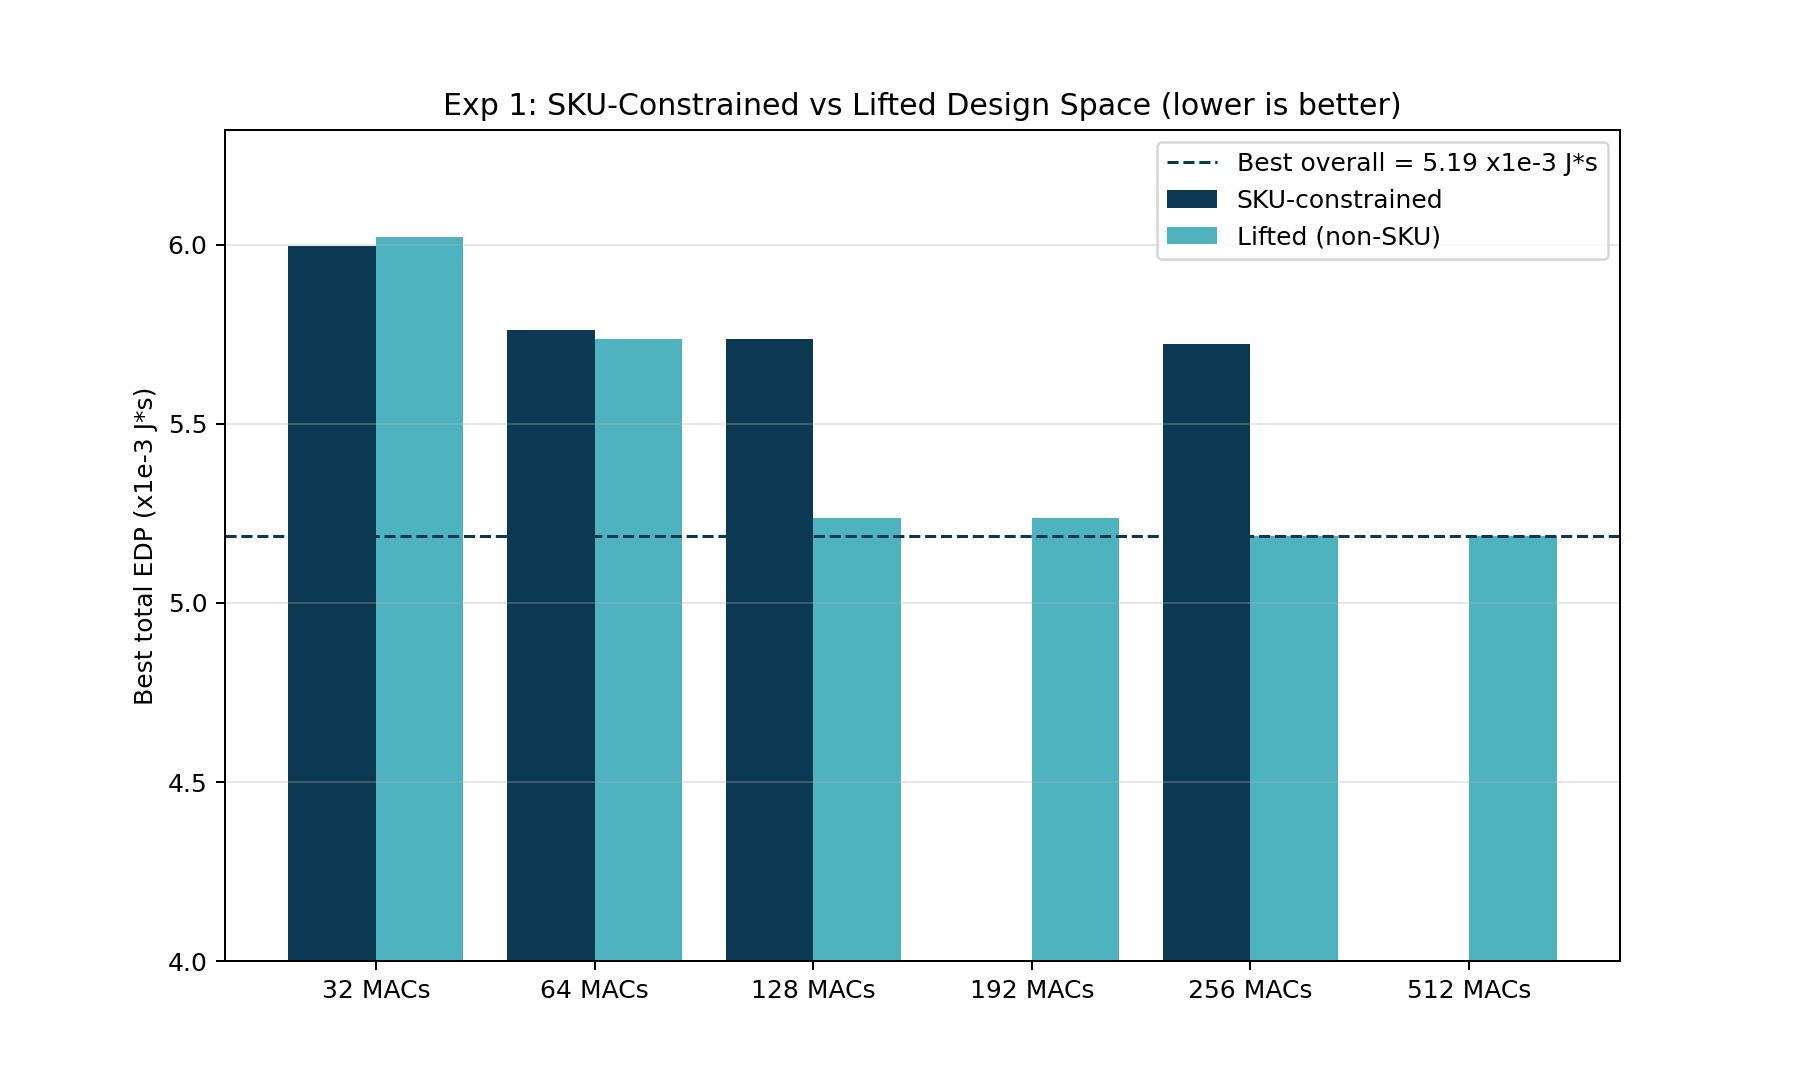
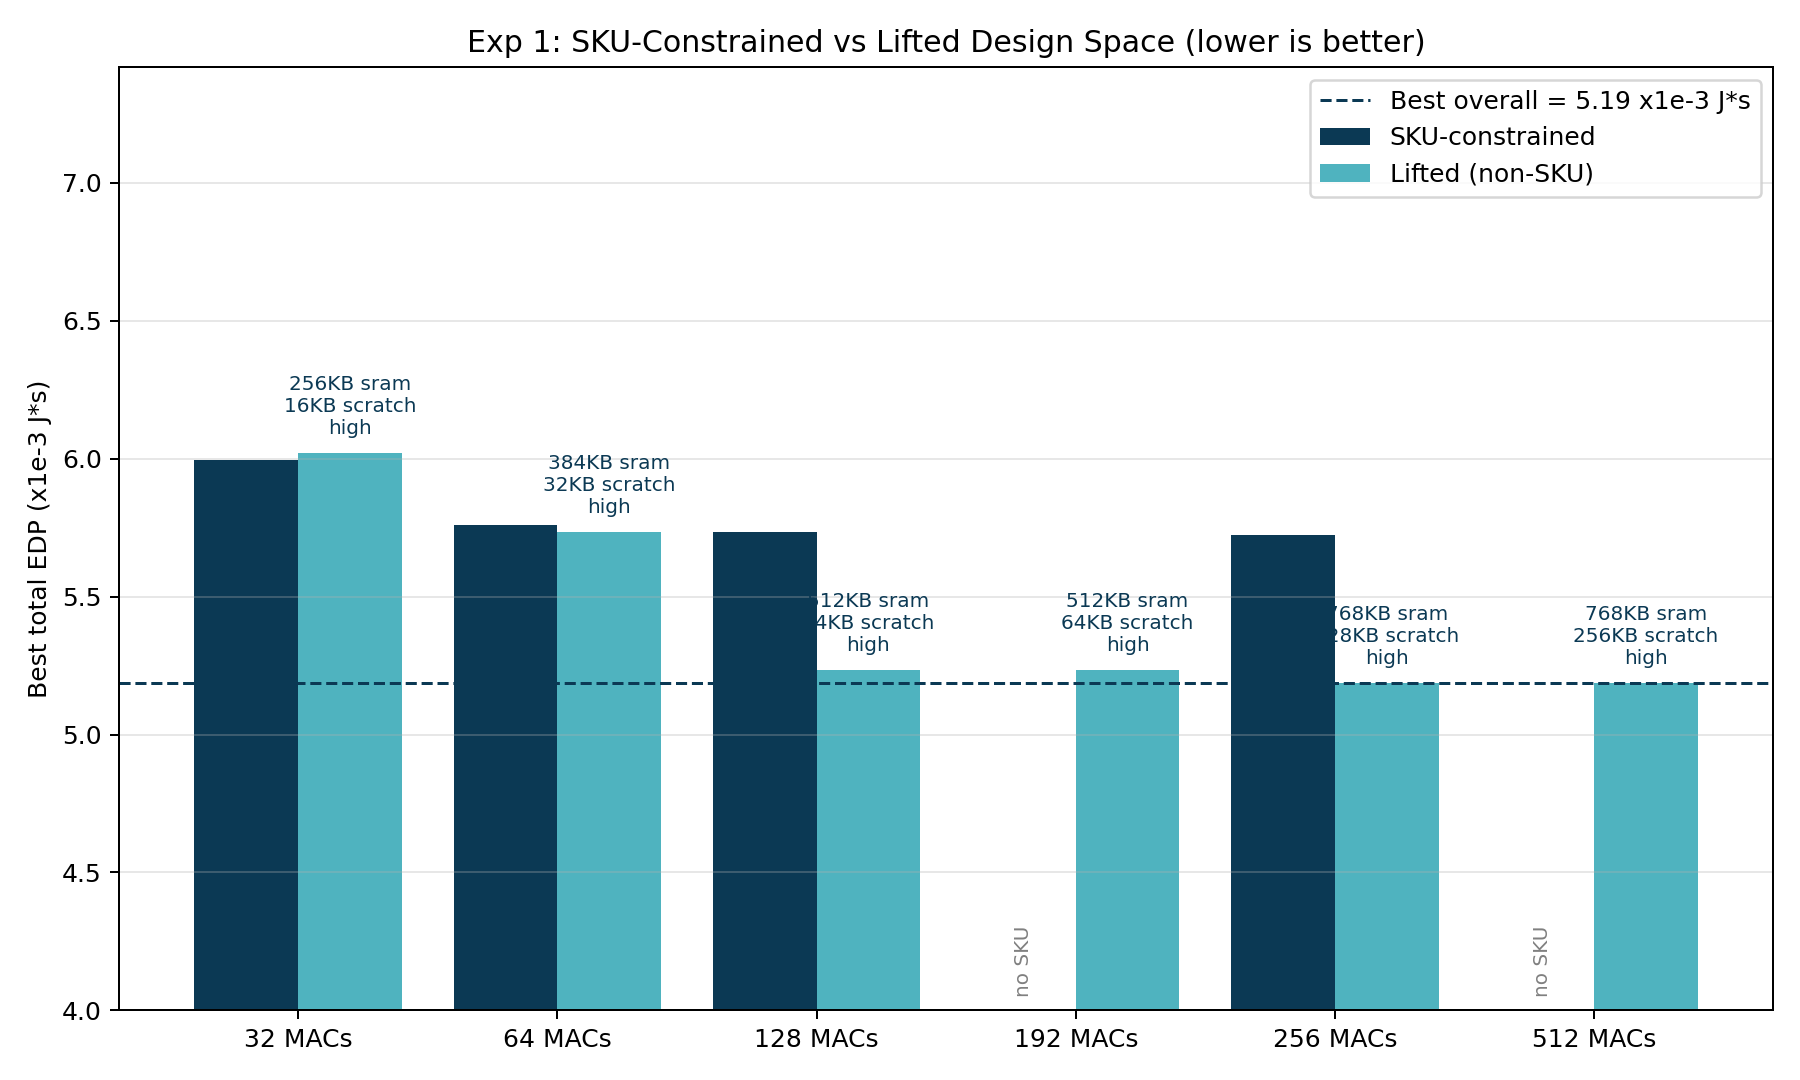
parameter influence plots

diff --git a/milestone_2/plot_final_results.py b/milestone_2/plot_final_results.py
@@ -151,23 +151,64 @@ def plot_exp1(exp1_path: Path, out_dir: Path) -> None:
         if m in non_best:
             c = non_best[m]
             preset = _short(c["system_preset"])
-            ax.text(i + w / 2, non_vals[i] + 0.02,
-                    f"{c['sram_kb']}KB / {c['scratch_kb']}KB / {preset}",
-                    ha="center", va="bottom", fontsize=7, color=OCEAN[0], rotation=0)
+            ax.annotate(f"{c['sram_kb']}KB sram\n{c['scratch_kb']}KB scratch\n{preset}",
+                        xy=(i + w / 2, non_vals[i]),
+                        xytext=(0, 6), textcoords="offset points",
+                        ha="center", va="bottom", fontsize=8, color=OCEAN[0])
 
-    best_overall = min(min(sku_best.values()), min(non_best.values()))
+    best_overall = min(c["total_edp"] * 1e3 for c in list(sku_best.values()) + list(non_best.values()))
     ax.axhline(best_overall, linestyle="--", color=OCEAN[0], linewidth=1.2,
                label=f"Best overall = {best_overall:.2f} x1e-3 J*s")
 
     ax.set_xticks(x)
     ax.set_xticklabels([f"{m} MACs" for m in macs_all])
     ax.set_ylabel("Best total EDP (x1e-3 J*s)")
-    ax.set_ylim(bottom=4.0)
+    top = max(max(sku_vals), max(non_vals)) + 1.4
+    ax.set_ylim(bottom=4.0, top=top)
     ax.set_title("Exp 1: SKU-Constrained vs Lifted Design Space (lower is better)")
     ax.grid(axis="y", alpha=0.3)
     ax.legend(loc="upper right")
     fig.tight_layout()
     fig.savefig(out_dir / "exp1_sku_vs_lifted.png", dpi=180)
+    plt.close(fig)
+
+    # Figure 5: parameter-influence subplots — average EDP per fixed value
+    from collections import defaultdict
+
+    params = [
+        ("num_macs", "MAC count", lambda v: f"{v}"),
+        ("sram_kb", "SRAM (KB)", lambda v: f"{v}"),
+        ("scratch_kb", "Scratchpad (KB)", lambda v: f"{v}"),
+        ("system_preset", "System preset", _short),
+    ]
+
+    fig, axes = plt.subplots(2, 2, figsize=(11, 8))
+    for ax, (key, title, fmt) in zip(axes.flat, params):
+        groups: dict = defaultdict(list)
+        for c in cfgs:
+            groups[c[key]].append(c["total_edp"] * 1e3)
+        keys_sorted = sorted(groups.keys(), key=lambda v: (isinstance(v, str), v))
+        means = [float(np.mean(groups[k])) for k in keys_sorted]
+        stds = [float(np.std(groups[k], ddof=1)) if len(groups[k]) > 1 else 0.0 for k in keys_sorted]
+        labels_x = [fmt(k) for k in keys_sorted]
+        colors = [OCEAN[i % len(OCEAN)] for i in range(len(keys_sorted))]
+
+        bars = ax.bar(labels_x, means, yerr=stds, color=colors, edgecolor="black",
+                      linewidth=0.4, capsize=4,
+                      error_kw={"ecolor": "black", "elinewidth": 1.0})
+        for b, m, s, vals in zip(bars, means, stds, [groups[k] for k in keys_sorted]):
+            ax.text(b.get_x() + b.get_width() / 2, m + s,
+                    f"{m:.2f}\n(n={len(vals)})", ha="center", va="bottom", fontsize=8)
+        lo = min(m - s for m, s in zip(means, stds)) - 0.3
+        hi = max(m + s for m, s in zip(means, stds)) + 0.8
+        ax.set_ylim(bottom=max(0, lo), top=hi)
+        ax.set_title(f"Avg EDP vs {title}")
+        ax.set_ylabel("Avg EDP (x1e-3 J*s)")
+        ax.grid(axis="y", alpha=0.3)
+
+    fig.suptitle("Exp 1: Parameter Influence on Total EDP (averaged over other params)")
+    fig.tight_layout()
+    fig.savefig(out_dir / "exp1_param_influence.png", dpi=180)
     plt.close(fig)
 
 
